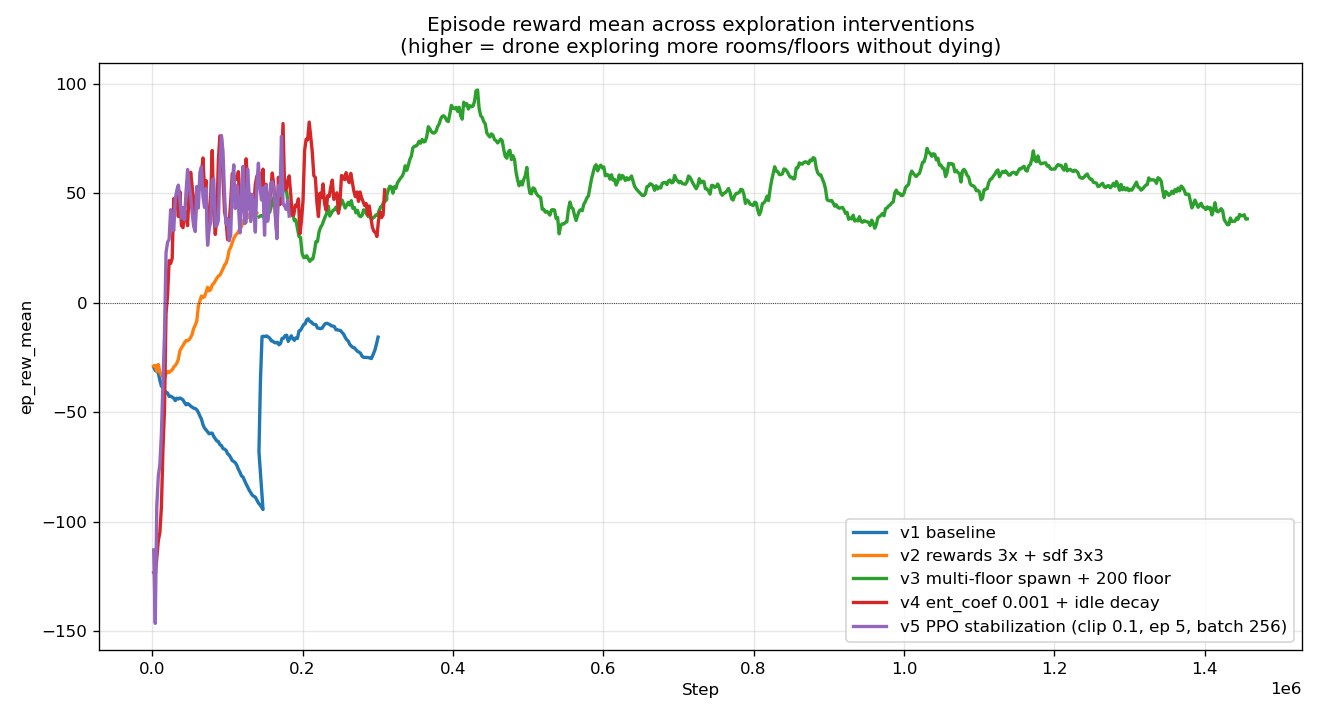
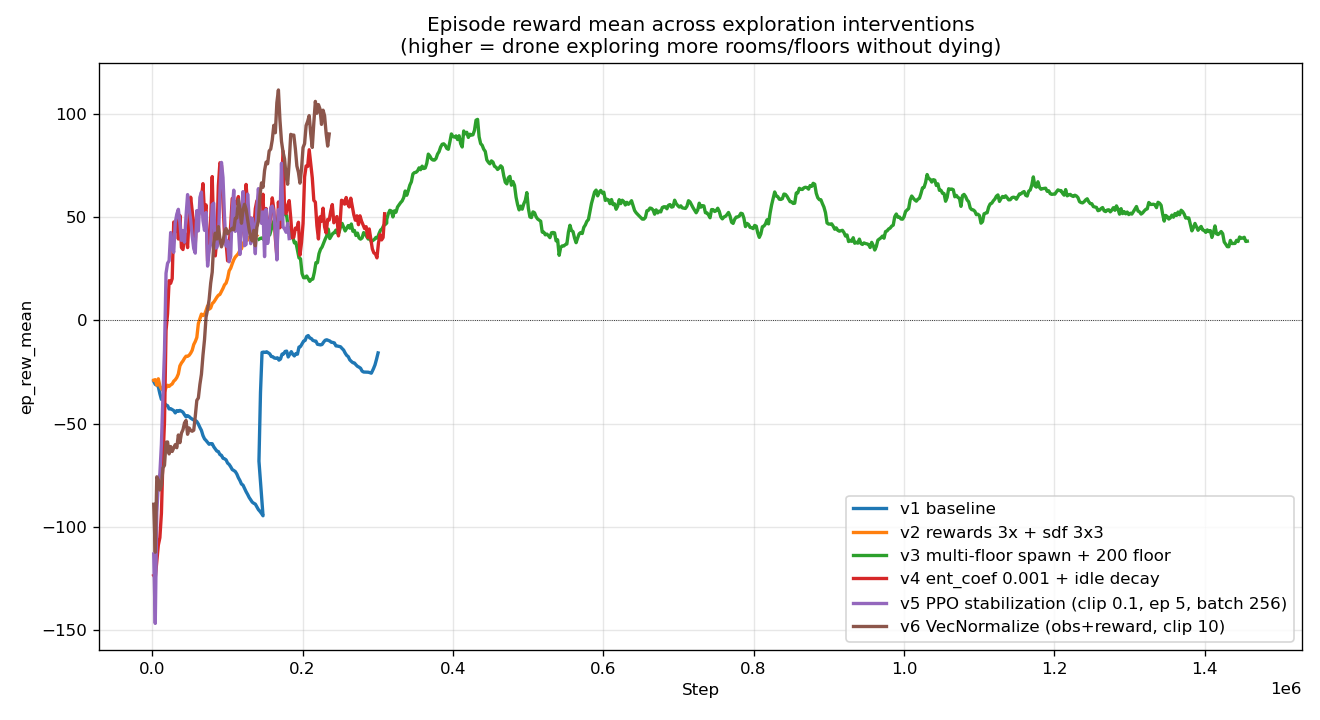
algo/ppo: v7 — linear lr decay (autonomous loop iter 2)
v6 was the breakthrough: VecNormalize on obs+reward gave a smooth
curve with peak +110 raw reward at 150k — twice v3-v5's flat ~+45.
But v6 still drifted from +110 down to +85 by 235k, the classic
"converge to greedy then break" pattern that constant lr produces.

v7 adds linear lr schedule 3e-4 -> 3e-5 across the full run via a
new _build_lr() helper in train_ppo.py and `lr_schedule: linear` /
`lr_final` fields in ppo.yaml. SB3 PPO accepts a callable schedule
called with `progress_remaining` (1.0->0.0). This shrinks per-step
policy shifts as we approach the end so peak is preserved instead
of being eroded by late large updates.

Everything else carried over from v6: VecNormalize, ent_coef 0.001,
clip 0.1, n_epochs 5, batch 256, gae 0.9, idle decay, multi-floor
spawn, bumped rewards.

Output runs/ppo_v7_lrdecay/. v6 results untouched.
Plots regenerated to include v6's smooth peak.

diff --git a/ros2_ws/src/rl_drone_pathfinding/rl_drone_pathfinding/agents/train_ppo.py b/ros2_ws/src/rl_drone_pathfinding/rl_drone_pathfinding/agents/train_ppo.py
@@ -19,6 +19,22 @@ def _load_config(path: str) -> dict:
         return yaml.safe_load(f)
 
 
+def _build_lr(ppo_cfg: dict):
+    """Return a learning_rate value or callable schedule per yaml config."""
+    base = float(ppo_cfg["learning_rate"])
+    sched = ppo_cfg.get("lr_schedule")
+    if sched is None or sched == "constant":
+        return base
+    if sched == "linear":
+        final = float(ppo_cfg.get("lr_final", base * 0.1))
+
+        def f(progress_remaining: float) -> float:
+            # progress_remaining: 1.0 at start -> 0.0 at end
+            return final + progress_remaining * (base - final)
+        return f
+    raise ValueError(f"unknown lr_schedule={sched!r}")
+
+
 def _make_env(env_cfg: dict):
     def _factory():
         env = DroneExplorationEnv(
@@ -84,7 +100,7 @@ def main(argv=None):
         model = PPO(
             policy=ppo_cfg["policy"],
             env=vec_env,
-            learning_rate=float(ppo_cfg["learning_rate"]),
+            learning_rate=_build_lr(ppo_cfg),
             n_steps=int(ppo_cfg["n_steps"]),
             batch_size=int(ppo_cfg["batch_size"]),
             n_epochs=int(ppo_cfg["n_epochs"]),

diff --git a/scripts/plot_training.py b/scripts/plot_training.py
@@ -26,6 +26,7 @@ VERSIONS = {
     "v3 multi-floor spawn + 200 floor": REPO / "runs/ppo_v3_floors/tb/PPO_0",
     "v4 ent_coef 0.001 + idle decay": REPO / "runs/ppo_v4_low_ent/tb/PPO_1",
     "v5 PPO stabilization (clip 0.1, ep 5, batch 256)": REPO / "runs/ppo_v5_stable/tb/PPO_1",
+    "v6 VecNormalize (obs+reward, clip 10)": REPO / "runs/ppo_v6_normalized/tb/PPO_1",
 }
 
 METRICS = [

diff --git a/docs/PROGRESS.md b/docs/PROGRESS.md
@@ -457,3 +457,40 @@ yine durup v7 kararı verecek. Beklenti: reward smooth-ish bir trajectory
 izler, peak'ten sonra sürekli oscillation yerine daha düz bir öğrenme
 eğrisi. ep_rew_mean'in mutlak değeri normalize edildiği için BAŞKA
 ölçek ama trend net görünür.
+
+### v6 → v7 pivot: linear lr decay (saat 06:36, autonomous loop)
+
+#### Veri (v6 @ 235k step)
+
+**v6 BÜYÜK BAŞARI**: VecNormalize çalıştı.
+- Smooth reward eğrisi (v3-v5'teki yüksek-frekans osilasyon yok)
+- Peak **+110** (~150k civarı) — tüm versiyonlar arasında en yüksek
+- v3-v5 ortalama ~+45 idi, v6 ~+95 (2x improvement)
+- Entropy sağlıklı (std ~0.7, entropy_loss -4 sabit)
+
+#### Sebep teşhisi
+
+İyileşme var ama hâlâ **peak-then-regress** paterni: 150k +110 → 235k
++85 düşüş. Klasik "policy converges to greedy then breaks down" — sabit
+lr=3e-4 ile policy converge ettikten sonra hâlâ büyük güncelleme
+yapılıyor, en iyi politikayı kemiriyor.
+
+#### v7 müdahaleleri
+
+| Param | v6 | v7 | Neden |
+|---|---|---|---|
+| `learning_rate` | 3.0e-4 sabit | **linear: 3e-4 → 3e-5** | Peak'i koru, fine-tune yap |
+| `lr_schedule` | yok | **linear** | Yeni yaml field |
+| `lr_final` | yok | **3.0e-5** | 10x küçük end-of-training lr |
+| Diğer | aynı | aynı | VecNormalize aktif, ent 0.001, clip 0.1 vs |
+| Çıktı | runs/ppo_v6_normalized | **runs/ppo_v7_lrdecay** | v6 sonuçları korundu |
+
+train_ppo.py'de yeni `_build_lr()` helper, `lr_schedule: linear` +
+`lr_final` yaml'dan okur, callable döner. SB3 PPO callable lr_schedule
+olarak kabul eder, her training step'te `progress_remaining` ile çağırır.
+
+#### v7 run plan'ı
+
+Saat 06:38'de başladı, fresh start. Beklenti: peak v6 seviyesinde veya
+biraz altında ulaşır ama sonrası DÜŞÜŞSÜZ — ya plateau ya da yavaş
+yukarı. lr decay'in tipik faydası "peak'i bozmadan koruma."
